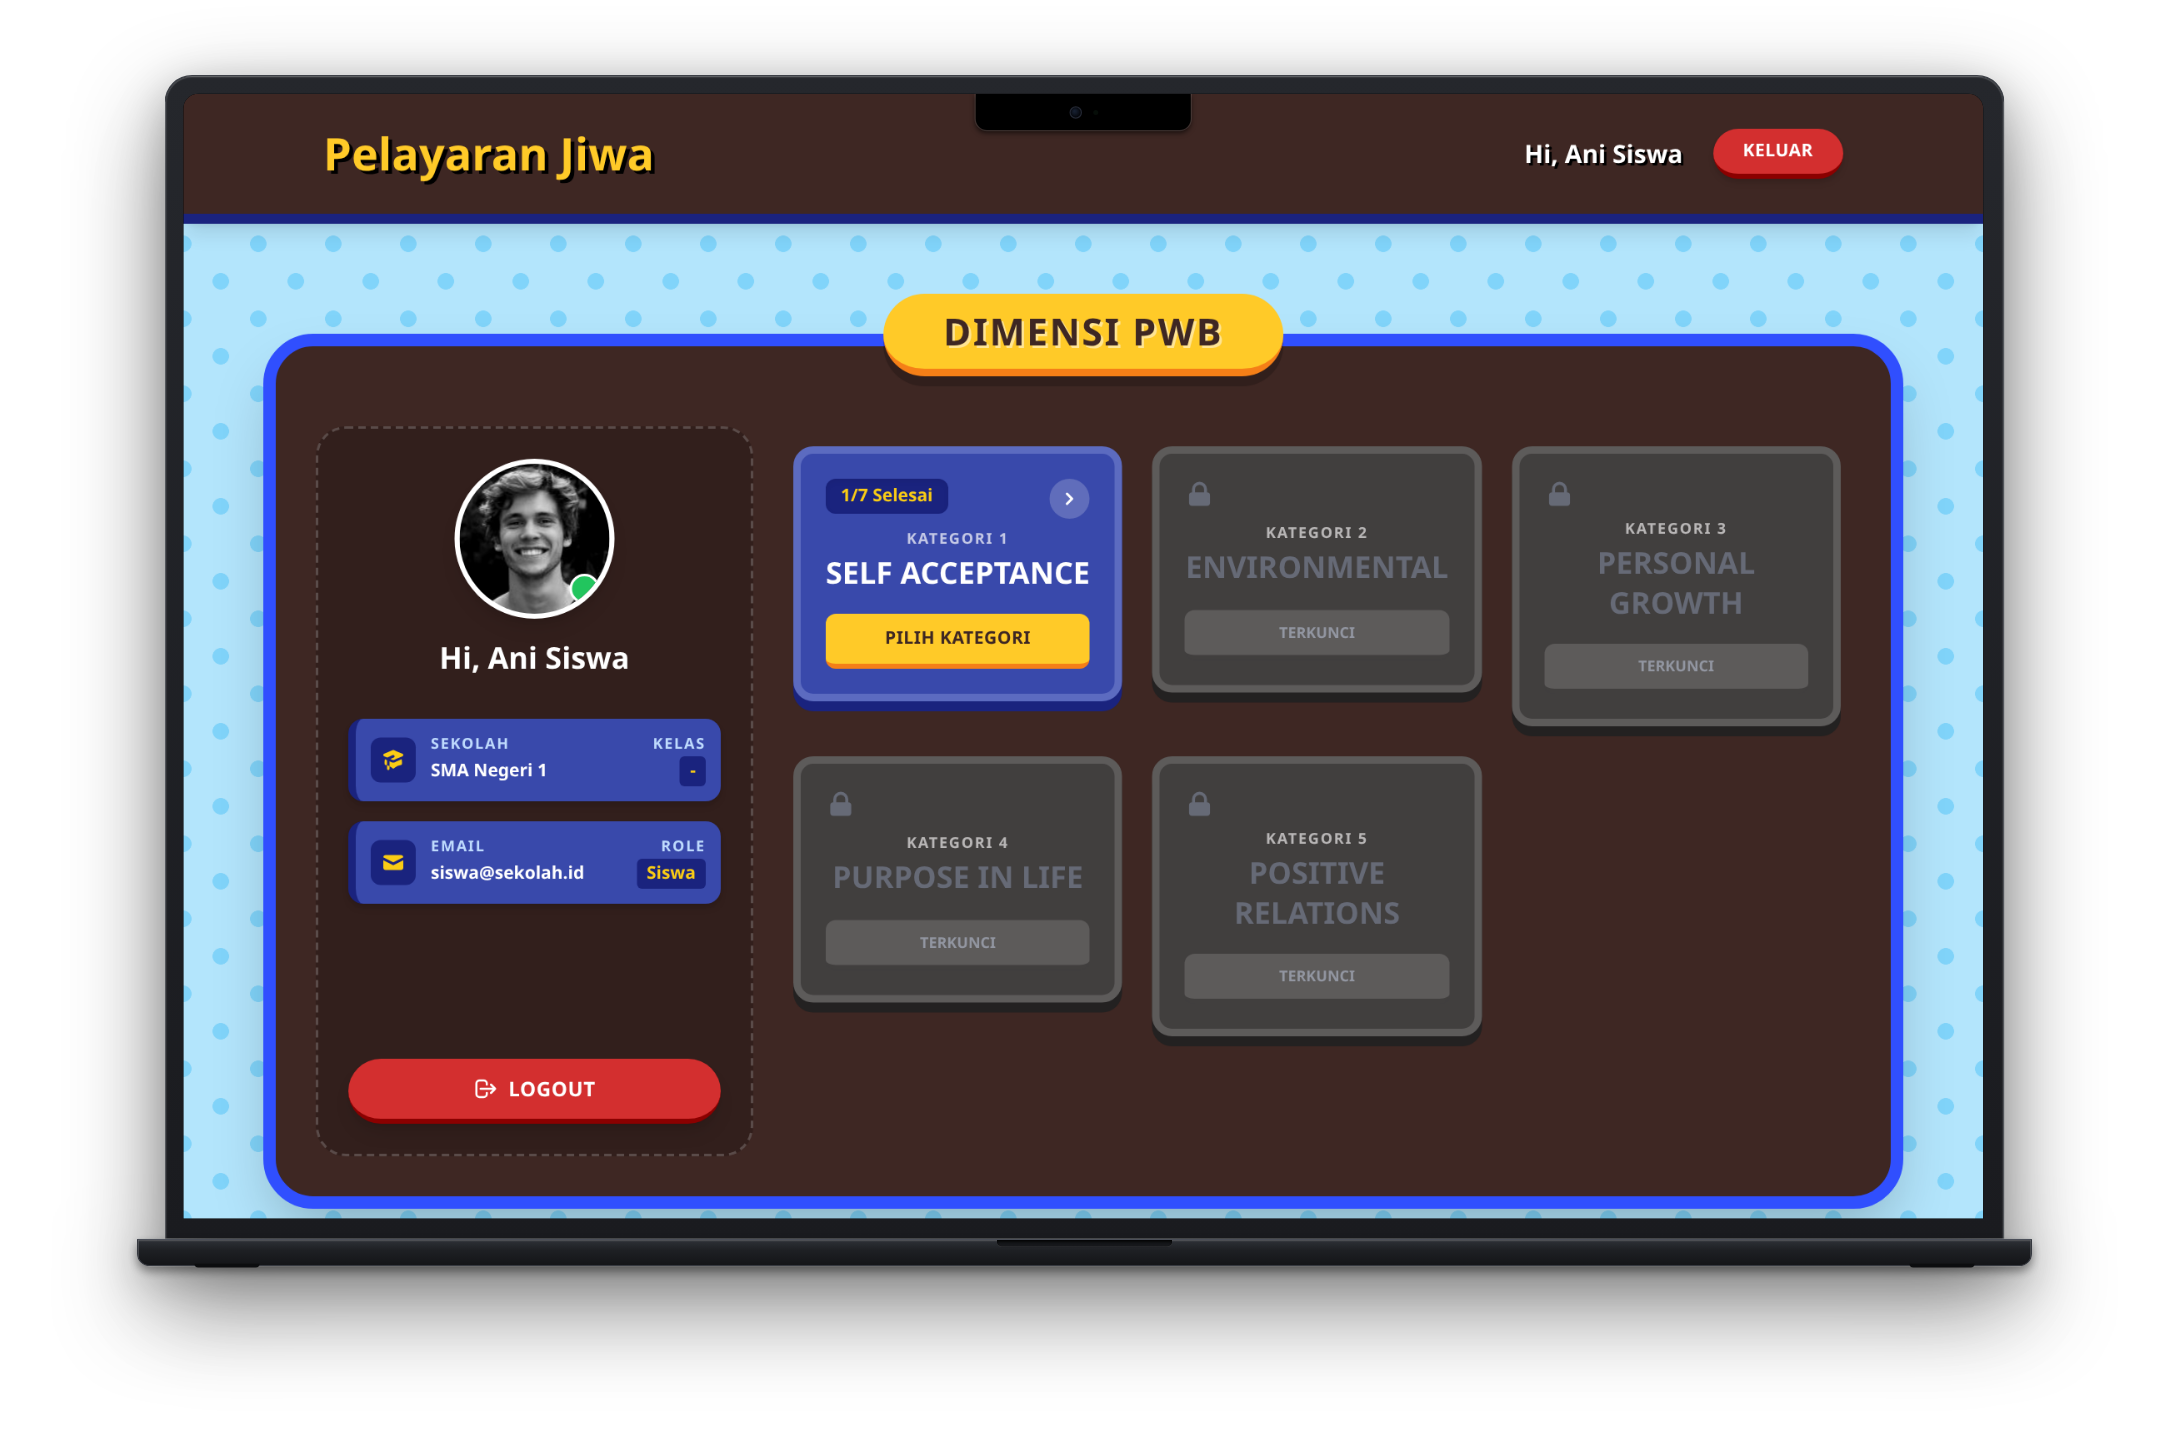
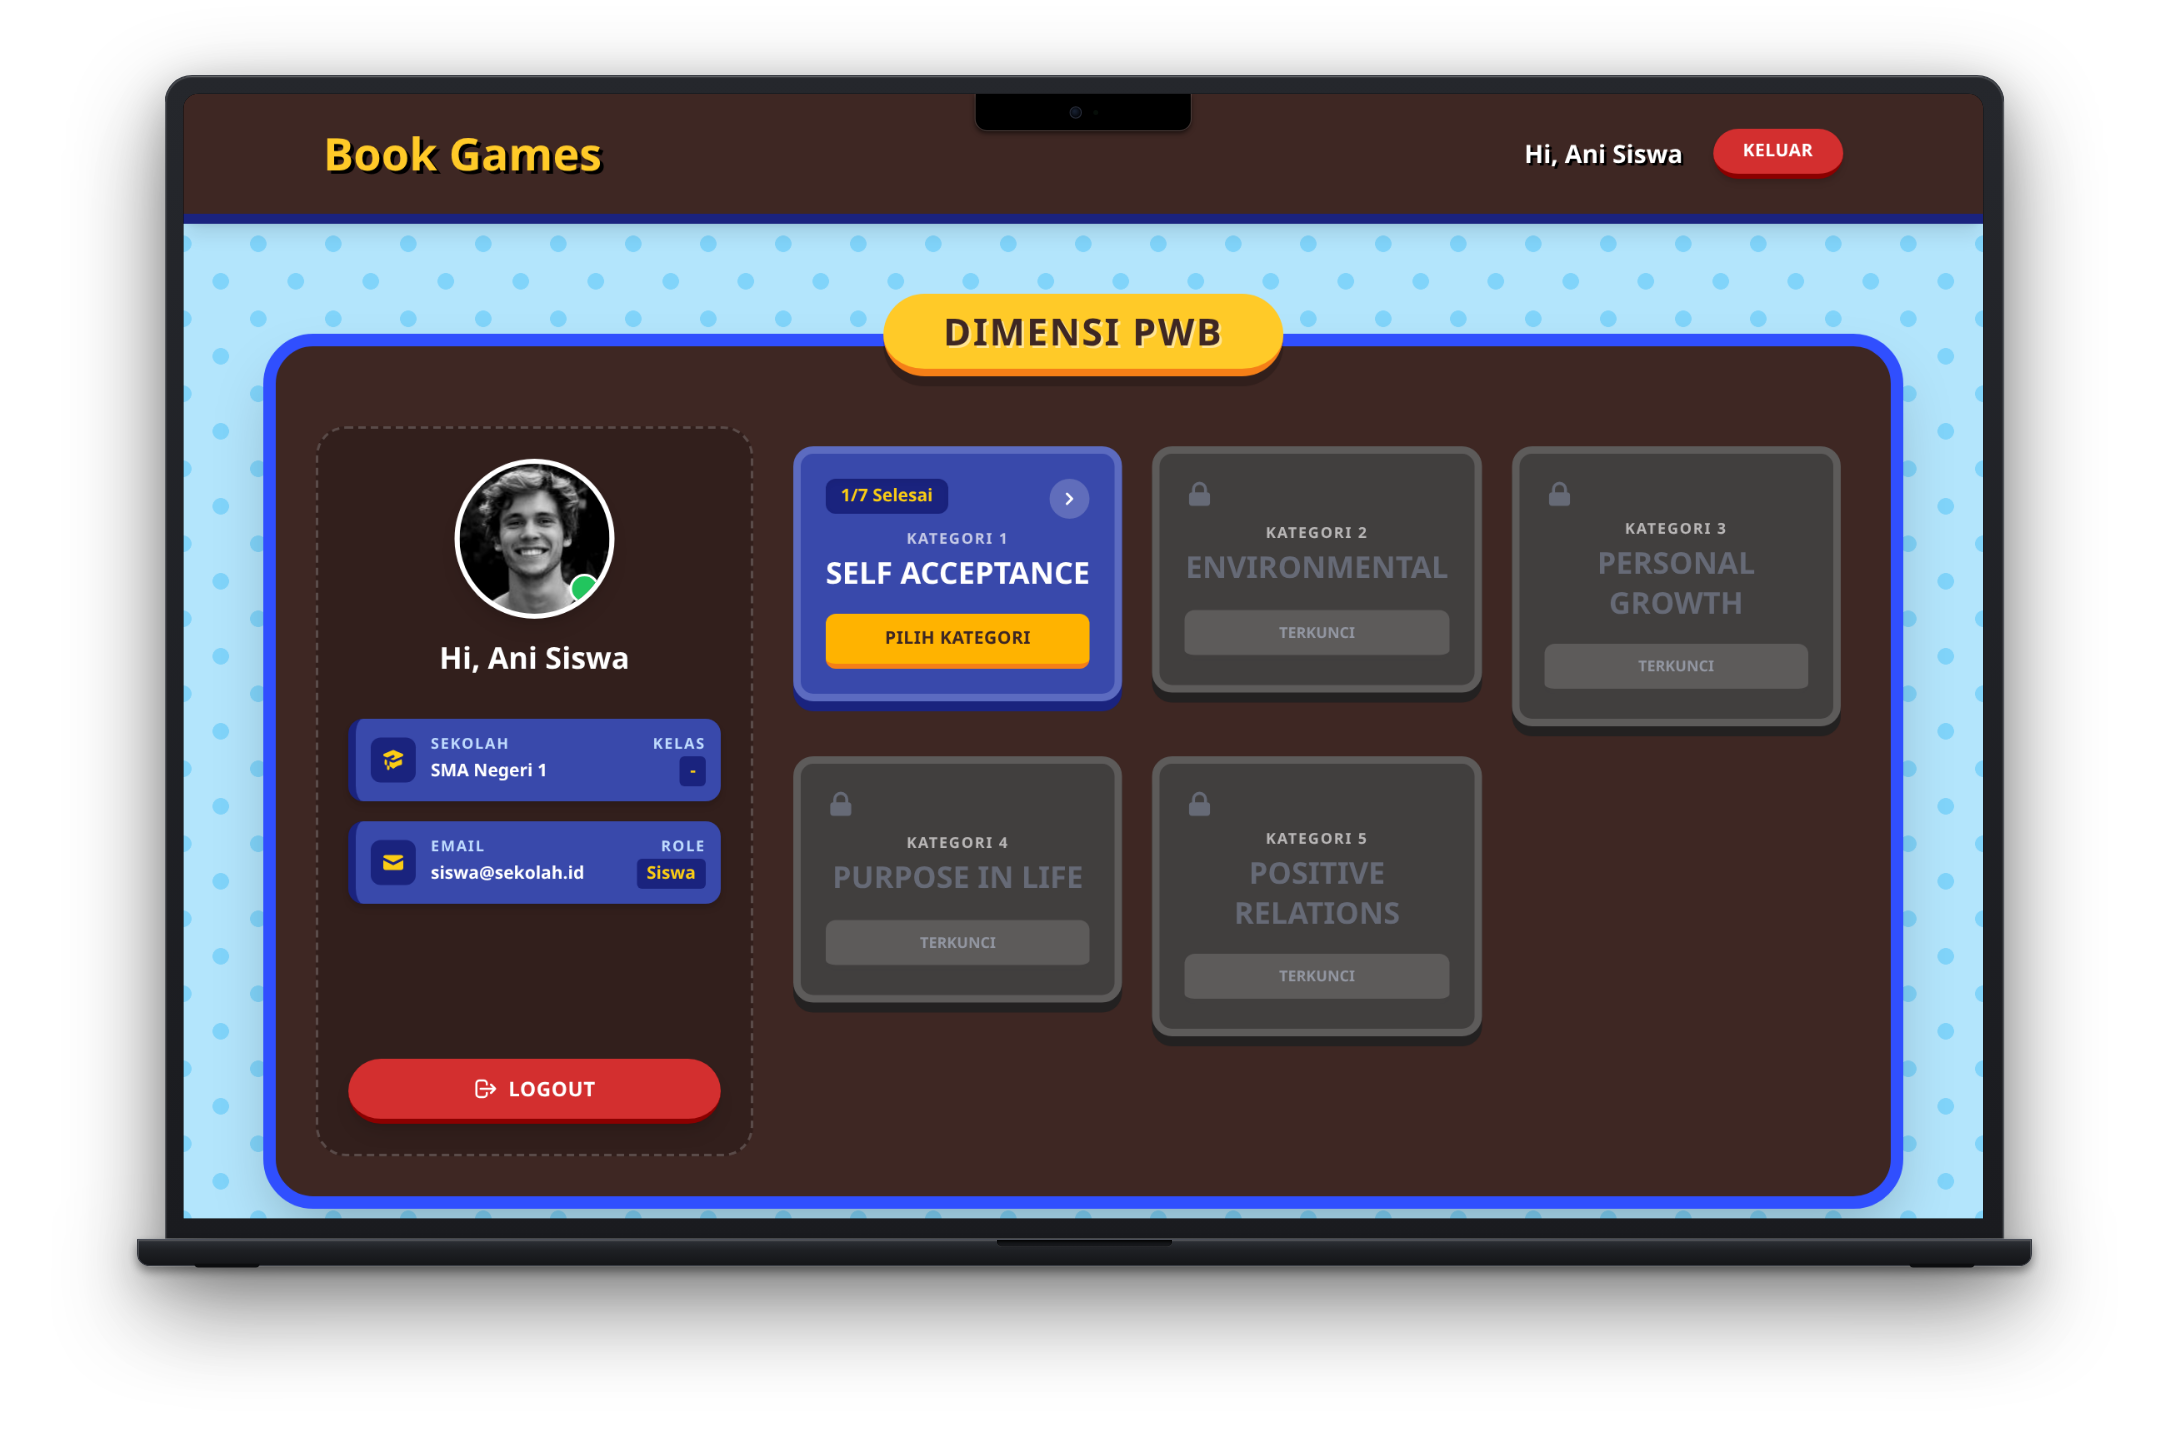
feat(branding): standardize titles to Book Games, update navigation hierarchy, and refine README tagline

Changed region(s): [[0.3705, 0.4311, 0.5249, 0.4619], [0.1544, 0.0924, 0.3088, 0.1232]]

diff --git a/app/portfolio/page.tsx b/app/portfolio/page.tsx
@@ -158,9 +158,9 @@ export default function PortfolioPage() {
                 <div className="header-ribbon-portfolio" style={{ marginBottom: '40px' }}>
                     2026 PRODUCT SHOWCASE
                 </div>
-                <h1>NEXTJS <span style={{ color: 'var(--panel-border)' }}>-</span> SCHOOL GAMES</h1>
+                <h1>BOOK <span style={{ color: 'var(--panel-border)' }}>GAMES</span></h1>
                 <div className="game-panel-portfolio" style={{ marginTop: '20px' }}>
-                    <p className="text-2xl font-black font-fredoka uppercase tracking-wider">PELAYARAN JIWA: Platform Pembelajaran Interaktif</p>
+                    <p className="text-2xl font-black font-fredoka uppercase tracking-wider">BOOK GAMES: Platform Pembelajaran Interaktif</p>
                 </div>
                 <div className="page-num">01</div>
             </section>
@@ -290,7 +290,7 @@ export default function PortfolioPage() {
             {/* PAGE 09: TECH STACK */}
             <section className="portfolio-page layout-hero">
                 <div className="header-ribbon-portfolio">Modern Technology</div>
-                <h1 className="!text-5xl mb-12">The Power Behind Pelayaran Jiwa</h1>
+                <h1 className="!text-5xl mb-12">The Power Behind Book Games</h1>
                 <div className="grid grid-cols-3 gap-8 w-full max-w-5xl">
                     <div className="game-panel-portfolio">
                         <h2 className="text-center">FRONTEND</h2>
@@ -329,7 +329,7 @@ export default function PortfolioPage() {
                 <div className="header-ribbon-portfolio !text-2xl">
                     WIDI FIRMAAN | LEAD DEVELOPER
                 </div>
-                <p className="text-white font-bold mt-8 opacity-60 italic">NextJS - School Games 2026</p>
+                <p className="text-white font-bold mt-8 opacity-60 italic">Book Games 2026</p>
                 <div className="page-num">10</div>
             </section>
         </main>

diff --git a/app/page.tsx b/app/page.tsx
@@ -213,9 +213,9 @@ export default function Home() {
                 <div className="header-ribbon-portfolio" style={{ marginBottom: '40px' }}>
                     2026 PRODUCT SHOWCASE
                 </div>
-                <h1>NEXTJS <span style={{ color: 'var(--panel-border)' }}>-</span> SCHOOL GAMES</h1>
+                <h1>BOOK <span style={{ color: 'var(--panel-border)' }}>GAMES</span></h1>
                 <div className="game-panel-portfolio" style={{ marginTop: '20px' }}>
-                    <p className="text-2xl font-black font-fredoka uppercase tracking-wider">PELAYARAN JIWA: Platform Pembelajaran Interaktif</p>
+                    <p className="text-2xl font-black font-fredoka uppercase tracking-wider">BOOK GAMES: Platform Pembelajaran Interaktif</p>
                 </div>
                 <div className="page-num">01</div>
             </section>
@@ -345,7 +345,7 @@ export default function Home() {
             {/* PAGE 09: TECH STACK */}
             <section className="portfolio-page layout-hero">
                 <div className="header-ribbon-portfolio">Modern Technology</div>
-                <h1 className="!text-5xl mb-12">The Power Behind Pelayaran Jiwa</h1>
+                <h1 className="!text-5xl mb-12">The Power Behind Book Games</h1>
                 <div className="grid grid-cols-3 gap-8 w-full max-w-5xl">
                     <div className="game-panel-portfolio">
                         <h2 className="text-center">FRONTEND</h2>
@@ -384,7 +384,7 @@ export default function Home() {
                 <div className="header-ribbon-portfolio !text-2xl">
                     WIDI FIRMAAN | LEAD DEVELOPER
                 </div>
-                <p className="text-white font-bold mt-8 opacity-60 italic">NextJS - School Games 2026</p>
+                <p className="text-white font-bold mt-8 opacity-60 italic">Book Games 2026</p>
                 <div className="page-num">10</div>
             </section>
         </main>

diff --git a/app/dashboard/siswa/StudentDashboardClient.tsx b/app/dashboard/siswa/StudentDashboardClient.tsx
@@ -189,7 +189,7 @@ export default function StudentDashboardClient({ user, completedLevels }: Studen
                                     <svg xmlns="http://www.w3.org/2000/svg" className="h-5 w-5" viewBox="0 0 20 20" fill="currentColor">
                                         <path fillRule="evenodd" d="M9.707 16.707a1 1 0 01-1.414 0l-6-6a1 1 0 010-1.414l6-6a1 1 0 011.414 1.414L5.414 9H17a1 1 0 110 2H5.414l4.293 4.293a1 1 0 010 1.414z" clipRule="evenodd" />
                                     </svg>
-                                    Kembali ke Menu Utama
+                                    Kembali ke Dimensi PWB
                                 </button>
                                 <div className="text-white font-black text-xl bg-[#1a237e] px-4 py-1.5 rounded-full border-2 border-[#5c6bc0]">
                                     {chapterNames[selectedChapter]}

diff --git a/app/dashboard/layout.tsx b/app/dashboard/layout.tsx
@@ -26,7 +26,7 @@ export default async function DashboardLayout({
                             <div className="flex-shrink-0">
                                 <Link href="/dashboard">
                                     <h1 className="text-4xl font-bold font-fredoka text-[#ffca28]" style={{ textShadow: '3px 3px 0 #000' }}>
-                                        Pelayaran Jiwa
+                                        Book Games
                                     </h1>
                                 </Link>
                             </div>

diff --git a/app/layout.tsx b/app/layout.tsx
@@ -6,7 +6,7 @@ const nunito = Nunito({ subsets: ['latin'], variable: '--font-nunito' })
 const fredoka = Fredoka({ subsets: ['latin'], weight: ['300', '400', '500', '600', '700'], variable: '--font-fredoka' })
 
 export const metadata: Metadata = {
-    title: 'NextJS - School Games',
+    title: 'Book Games',
     description: 'Interactive Learning Platform',
 }
 

diff --git a/app/dashboard/guru/page.tsx b/app/dashboard/guru/page.tsx
@@ -257,7 +257,7 @@ export default function GuruDashboard() {
         const wscols = Object.keys(dataToExport[0] || {}).map(() => ({ wch: 40 }));
         worksheet['!cols'] = wscols;
 
-        XLSX.writeFile(workbook, "Data_Siswa_Pelayaran_Jiwa.xlsx")
+        XLSX.writeFile(workbook, "Data_Siswa_Book_Games.xlsx")
     }
 
     // Generate Level Columns (1-30)

diff --git a/lib/models/User.ts b/lib/models/User.ts
@@ -1,4 +1,4 @@
-// Cloudflare D1 User Model and Data Access Layer for BukuMedia School Games
+// Cloudflare D1 User Model and Data Access Layer for Book Games
 
 export interface UserRow {
     id: string;

diff --git a/README.md b/README.md
@@ -1,8 +1,8 @@
-# BukuMedia — School Games
+# Book Games
 
-> Interactive gamified educational platform and teacher gradebook built with Next.js 14, React 18, and Cloudflare D1.
+> Interactive gamified educational platform and teacher gradebook built with Next.js 14 and React 18.
 
-BukuMedia School Games is an educational web application built with Next.js 14 (App Router) and Cloudflare D1 (Serverless SQLite), migrated from a legacy Java desktop client. Deployed on Cloudflare Workers with OpenNext, it features 30 interactive mini-game levels across 5 psychological well-being dimensions, a student adventure progress map with achievement badges, and a teacher portal for student gradebook tracking and Excel export.
+Book Games is an educational web application built with Next.js 14 (App Router) and Cloudflare D1 (Serverless SQLite), migrated from a legacy Java desktop client. Deployed on Cloudflare Workers with OpenNext, it features 30 interactive mini-game levels across 5 psychological well-being dimensions, a student adventure progress map with achievement badges, and a teacher portal for student gradebook tracking and Excel export.
 
 [![Live Demo](https://img.shields.io/badge/Demo-book--games.widifirmaan.web.id-10B981?style=flat-square&logo=cloudflare&logoColor=white)](https://book-games.widifirmaan.web.id)
 [![Deployment](https://img.shields.io/badge/Deployment-Cloudflare_Workers-F38020?style=flat-square&logo=cloudflare)](https://book-games.widifirmaan.web.id)
@@ -28,7 +28,7 @@ BukuMedia School Games is an educational web application built with Next.js 14 (
 
 | Desktop (MacBook Pro M4) | Mobile (iPhone 16 Pro) |
 | :---: | :---: |
-| **School Games Portal Home Desktop**<br>![School Games Portal Home Desktop](screenshots/School%20Games%20Portal%20Home%20Desktop.png) | **School Games Portal Home Mobile**<br>![School Games Portal Home Mobile](screenshots/School%20Games%20Portal%20Home%20Mobile.png) |
+| **Book Games Portal Home Desktop**<br>![Book Games Portal Home Desktop](screenshots/Book%20Games%20Portal%20Home%20Desktop.png) | **Book Games Portal Home Mobile**<br>![Book Games Portal Home Mobile](screenshots/Book%20Games%20Portal%20Home%20Mobile.png) |
 | **Unified Role Auth Portal Desktop**<br>![Unified Role Auth Portal Desktop](screenshots/Unified%20Role%20Auth%20Portal%20Desktop.png) | **Unified Role Auth Portal Mobile**<br>![Unified Role Auth Portal Mobile](screenshots/Unified%20Role%20Auth%20Portal%20Mobile.png) |
 | **Student Adventure Map Desktop**<br>![Student Adventure Map Desktop](screenshots/Student%20Adventure%20Map%20Desktop.png) | **Student Adventure Map Mobile**<br>![Student Adventure Map Mobile](screenshots/Student%20Adventure%20Map%20Mobile.png) |
 | **Teacher Gradebook Analytics Desktop**<br>![Teacher Gradebook Analytics Desktop](screenshots/Teacher%20Gradebook%20Analytics%20Desktop.png) | **Teacher Gradebook Analytics Mobile**<br>![Teacher Gradebook Analytics Mobile](screenshots/Teacher%20Gradebook%20Analytics%20Mobile.png) |
